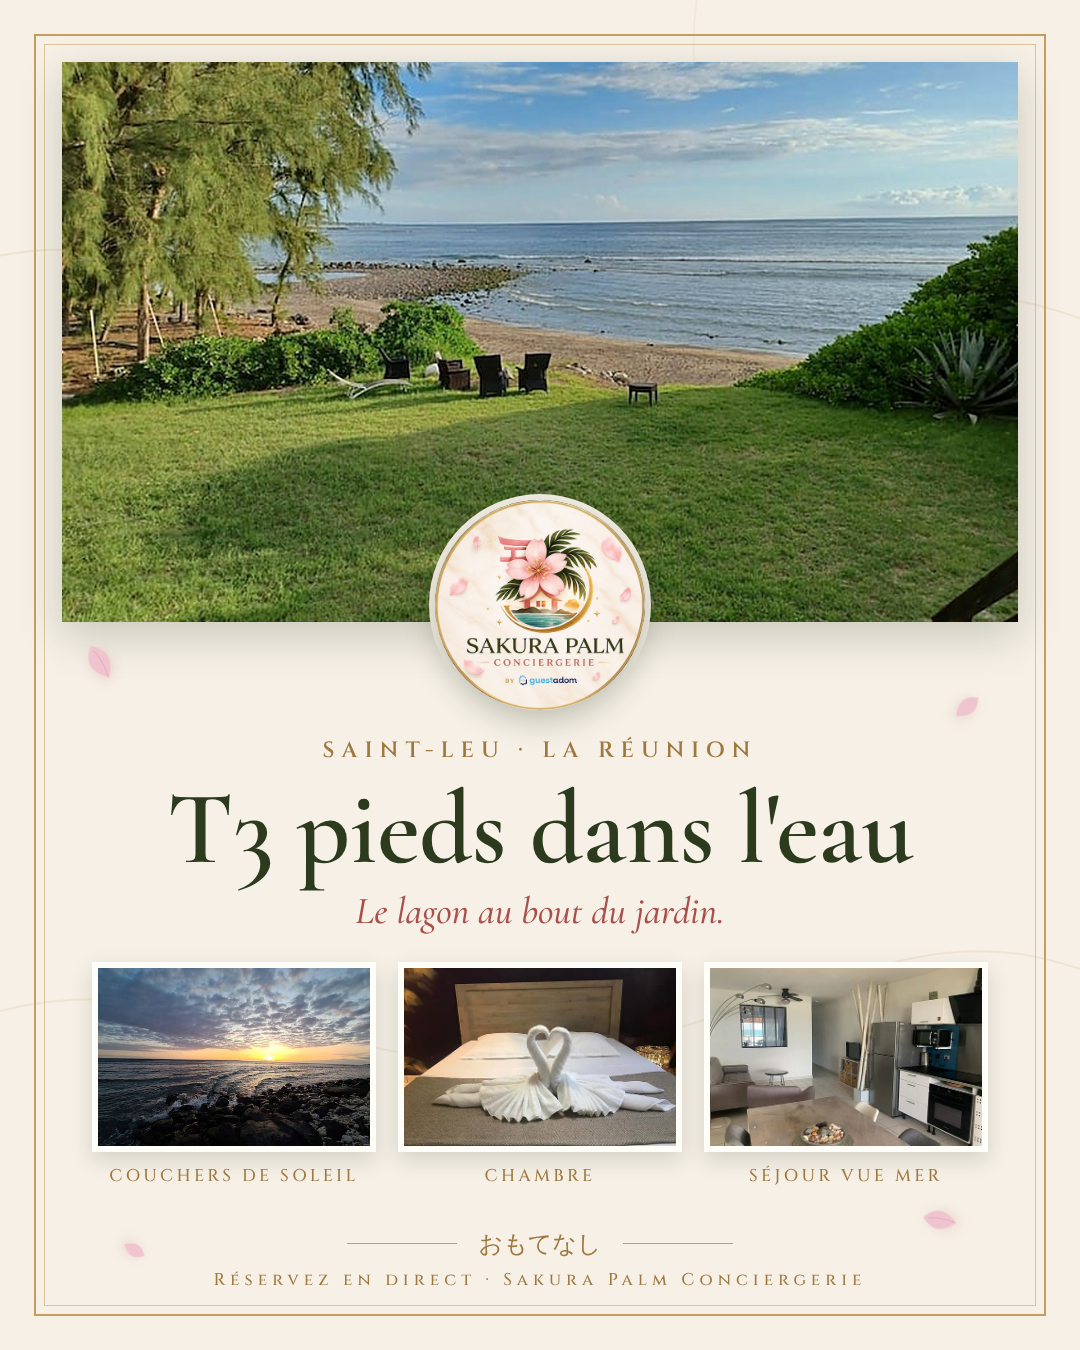
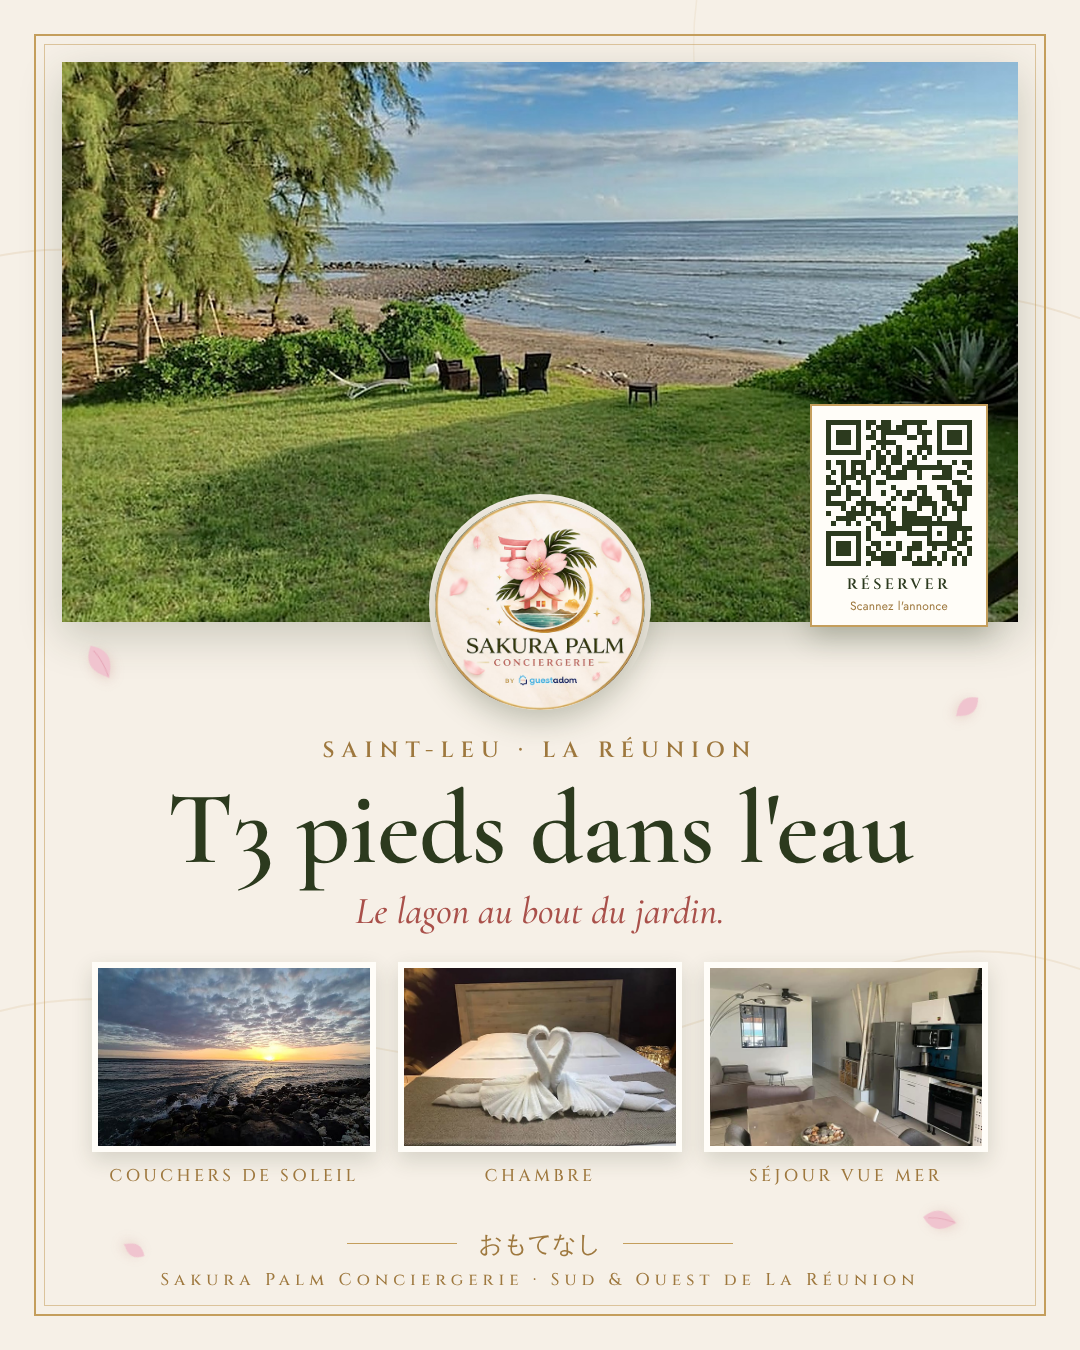
Visuels T3 Saint-Leu : QR code vers l'annonce Airbnb
Claude-Session: https://claude.ai/code/session_01NXmJ5W9pa9PxAtTQw649Kq

diff --git a/communication/sakura-palm/t3-saint-leu/visuel.html b/communication/sakura-palm/t3-saint-leu/visuel.html
@@ -35,6 +35,10 @@ body { background: #ddd; }
 .cta b { font-weight: 600; }
 .foot { font: 500 17px var(--caps); letter-spacing: .3em; color: var(--gold-d); text-align: center; }
 .abs { position: absolute; left: 0; right: 0; z-index: 4; }
+.qr { position: absolute; z-index: 8; background: #fffdf8; padding: 14px 14px 10px; border: 2px solid var(--gold); box-shadow: 0 10px 26px rgba(44,58,30,.25); text-align: center; }
+.qr .qr-svg { display: block; width: 100%; height: auto; }
+.qr p { font: 600 15px var(--caps); letter-spacing: .22em; color: var(--palm); margin-top: 8px; text-transform: uppercase; }
+.qr small { display: block; font: 400 12px var(--sans); color: var(--gold-d); margin-top: 2px; letter-spacing: .02em; }
 </style>
 </head>
 <body>
@@ -50,6 +54,7 @@ body { background: #ddd; }
 
   <div class="photo main" style="left:62px; right:62px; top:62px; height:560px; background-image:url(img/jardin.jpg); background-position:center 62%"></div>
   <img class="medal" src="img/logo.png" style="top:500px; width:210px; height:210px" alt="">
+  <div class="qr" style="top:404px; right:92px; width:178px"><svg class="qr-svg" viewBox="0 0 29 29" xmlns="http://www.w3.org/2000/svg" shape-rendering="crispEdges"><path d="M0 0h1v1h-1zM1 0h1v1h-1zM2 0h1v1h-1zM3 0h1v1h-1zM4 0h1v1h-1zM5 0h1v1h-1zM6 0h1v1h-1zM8 0h1v1h-1zM9 0h1v1h-1zM11 0h1v1h-1zM12 0h1v1h-1zM15 0h1v1h-1zM16 0h1v1h-1zM17 0h1v1h-1zM18 0h1v1h-1zM19 0h1v1h-1zM22 0h1v1h-1zM23 0h1v1h-1zM24 0h1v1h-1zM25 0h1v1h-1zM26 0h1v1h-1zM27 0h1v1h-1zM28 0h1v1h-1zM0 1h1v1h-1zM6 1h1v1h-1zM8 1h1v1h-1zM10 1h1v1h-1zM11 1h1v1h-1zM12 1h1v1h-1zM14 1h1v1h-1zM15 1h1v1h-1zM18 1h1v1h-1zM22 1h1v1h-1zM28 1h1v1h-1zM0 2h1v1h-1zM2 2h1v1h-1zM3 2h1v1h-1zM4 2h1v1h-1zM6 2h1v1h-1zM9 2h1v1h-1zM11 2h1v1h-1zM12 2h1v1h-1zM13 2h1v1h-1zM14 2h1v1h-1zM15 2h1v1h-1zM18 2h1v1h-1zM19 2h1v1h-1zM20 2h1v1h-1zM22 2h1v1h-1zM24 2h1v1h-1zM25 2h1v1h-1zM26 2h1v1h-1zM28 2h1v1h-1zM0 3h1v1h-1zM2 3h1v1h-1zM3 3h1v1h-1zM4 3h1v1h-1zM6 3h1v1h-1zM8 3h1v1h-1zM9 3h1v1h-1zM11 3h1v1h-1zM16 3h1v1h-1zM17 3h1v1h-1zM19 3h1v1h-1zM22 3h1v1h-1zM24 3h1v1h-1zM25 3h1v1h-1zM26 3h1v1h-1zM28 3h1v1h-1zM0 4h1v1h-1zM2 4h1v1h-1zM3 4h1v1h-1zM4 4h1v1h-1zM6 4h1v1h-1zM10 4h1v1h-1zM11 4h1v1h-1zM12 4h1v1h-1zM13 4h1v1h-1zM19 4h1v1h-1zM22 4h1v1h-1zM24 4h1v1h-1zM25 4h1v1h-1zM26 4h1v1h-1zM28 4h1v1h-1zM0 5h1v1h-1zM6 5h1v1h-1zM9 5h1v1h-1zM11 5h1v1h-1zM14 5h1v1h-1zM18 5h1v1h-1zM19 5h1v1h-1zM20 5h1v1h-1zM22 5h1v1h-1zM28 5h1v1h-1zM0 6h1v1h-1zM1 6h1v1h-1zM2 6h1v1h-1zM3 6h1v1h-1zM4 6h1v1h-1zM5 6h1v1h-1zM6 6h1v1h-1zM8 6h1v1h-1zM10 6h1v1h-1zM12 6h1v1h-1zM14 6h1v1h-1zM16 6h1v1h-1zM18 6h1v1h-1zM20 6h1v1h-1zM22 6h1v1h-1zM23 6h1v1h-1zM24 6h1v1h-1zM25 6h1v1h-1zM26 6h1v1h-1zM27 6h1v1h-1zM28 6h1v1h-1zM8 7h1v1h-1zM10 7h1v1h-1zM11 7h1v1h-1zM13 7h1v1h-1zM14 7h1v1h-1zM17 7h1v1h-1zM19 7h1v1h-1zM0 8h1v1h-1zM2 8h1v1h-1zM3 8h1v1h-1zM5 8h1v1h-1zM6 8h1v1h-1zM7 8h1v1h-1zM10 8h1v1h-1zM11 8h1v1h-1zM13 8h1v1h-1zM14 8h1v1h-1zM16 8h1v1h-1zM17 8h1v1h-1zM22 8h1v1h-1zM25 8h1v1h-1zM27 8h1v1h-1zM28 8h1v1h-1zM0 9h1v1h-1zM3 9h1v1h-1zM5 9h1v1h-1zM7 9h1v1h-1zM10 9h1v1h-1zM12 9h1v1h-1zM15 9h1v1h-1zM16 9h1v1h-1zM17 9h1v1h-1zM18 9h1v1h-1zM19 9h1v1h-1zM20 9h1v1h-1zM21 9h1v1h-1zM22 9h1v1h-1zM23 9h1v1h-1zM24 9h1v1h-1zM28 9h1v1h-1zM1 10h1v1h-1zM3 10h1v1h-1zM5 10h1v1h-1zM6 10h1v1h-1zM7 10h1v1h-1zM9 10h1v1h-1zM11 10h1v1h-1zM12 10h1v1h-1zM14 10h1v1h-1zM15 10h1v1h-1zM18 10h1v1h-1zM23 10h1v1h-1zM24 10h1v1h-1zM26 10h1v1h-1zM27 10h1v1h-1zM0 11h1v1h-1zM3 11h1v1h-1zM4 11h1v1h-1zM5 11h1v1h-1zM7 11h1v1h-1zM8 11h1v1h-1zM12 11h1v1h-1zM13 11h1v1h-1zM14 11h1v1h-1zM15 11h1v1h-1zM18 11h1v1h-1zM21 11h1v1h-1zM22 11h1v1h-1zM23 11h1v1h-1zM24 11h1v1h-1zM28 11h1v1h-1zM0 12h1v1h-1zM1 12h1v1h-1zM3 12h1v1h-1zM6 12h1v1h-1zM8 12h1v1h-1zM10 12h1v1h-1zM11 12h1v1h-1zM25 12h1v1h-1zM26 12h1v1h-1zM2 13h1v1h-1zM4 13h1v1h-1zM8 13h1v1h-1zM13 13h1v1h-1zM18 13h1v1h-1zM19 13h1v1h-1zM22 13h1v1h-1zM23 13h1v1h-1zM26 13h1v1h-1zM27 13h1v1h-1zM28 13h1v1h-1zM0 14h1v1h-1zM1 14h1v1h-1zM2 14h1v1h-1zM4 14h1v1h-1zM5 14h1v1h-1zM6 14h1v1h-1zM8 14h1v1h-1zM11 14h1v1h-1zM14 14h1v1h-1zM16 14h1v1h-1zM17 14h1v1h-1zM19 14h1v1h-1zM23 14h1v1h-1zM24 14h1v1h-1zM26 14h1v1h-1zM27 14h1v1h-1zM28 14h1v1h-1zM0 15h1v1h-1zM4 15h1v1h-1zM7 15h1v1h-1zM13 15h1v1h-1zM15 15h1v1h-1zM16 15h1v1h-1zM18 15h1v1h-1zM19 15h1v1h-1zM20 15h1v1h-1zM23 15h1v1h-1zM24 15h1v1h-1zM27 15h1v1h-1zM0 16h1v1h-1zM1 16h1v1h-1zM2 16h1v1h-1zM3 16h1v1h-1zM6 16h1v1h-1zM7 16h1v1h-1zM8 16h1v1h-1zM9 16h1v1h-1zM12 16h1v1h-1zM18 16h1v1h-1zM19 16h1v1h-1zM20 16h1v1h-1zM21 16h1v1h-1zM24 16h1v1h-1zM25 16h1v1h-1zM27 16h1v1h-1zM3 17h1v1h-1zM5 17h1v1h-1zM7 17h1v1h-1zM9 17h1v1h-1zM10 17h1v1h-1zM11 17h1v1h-1zM13 17h1v1h-1zM15 17h1v1h-1zM18 17h1v1h-1zM21 17h1v1h-1zM23 17h1v1h-1zM25 17h1v1h-1zM26 17h1v1h-1zM27 17h1v1h-1zM0 18h1v1h-1zM4 18h1v1h-1zM5 18h1v1h-1zM6 18h1v1h-1zM7 18h1v1h-1zM9 18h1v1h-1zM11 18h1v1h-1zM12 18h1v1h-1zM15 18h1v1h-1zM16 18h1v1h-1zM17 18h1v1h-1zM21 18h1v1h-1zM23 18h1v1h-1zM26 18h1v1h-1zM2 19h1v1h-1zM3 19h1v1h-1zM4 19h1v1h-1zM5 19h1v1h-1zM8 19h1v1h-1zM12 19h1v1h-1zM15 19h1v1h-1zM16 19h1v1h-1zM17 19h1v1h-1zM18 19h1v1h-1zM19 19h1v1h-1zM20 19h1v1h-1zM22 19h1v1h-1zM26 19h1v1h-1zM1 20h1v1h-1zM4 20h1v1h-1zM6 20h1v1h-1zM9 20h1v1h-1zM10 20h1v1h-1zM12 20h1v1h-1zM13 20h1v1h-1zM15 20h1v1h-1zM16 20h1v1h-1zM17 20h1v1h-1zM18 20h1v1h-1zM19 20h1v1h-1zM20 20h1v1h-1zM21 20h1v1h-1zM22 20h1v1h-1zM23 20h1v1h-1zM24 20h1v1h-1zM25 20h1v1h-1zM26 20h1v1h-1zM8 21h1v1h-1zM10 21h1v1h-1zM12 21h1v1h-1zM13 21h1v1h-1zM14 21h1v1h-1zM15 21h1v1h-1zM16 21h1v1h-1zM20 21h1v1h-1zM24 21h1v1h-1zM25 21h1v1h-1zM26 21h1v1h-1zM27 21h1v1h-1zM28 21h1v1h-1zM0 22h1v1h-1zM1 22h1v1h-1zM2 22h1v1h-1zM3 22h1v1h-1zM4 22h1v1h-1zM5 22h1v1h-1zM6 22h1v1h-1zM8 22h1v1h-1zM11 22h1v1h-1zM12 22h1v1h-1zM13 22h1v1h-1zM16 22h1v1h-1zM17 22h1v1h-1zM18 22h1v1h-1zM19 22h1v1h-1zM20 22h1v1h-1zM22 22h1v1h-1zM24 22h1v1h-1zM25 22h1v1h-1zM27 22h1v1h-1zM0 23h1v1h-1zM6 23h1v1h-1zM8 23h1v1h-1zM20 23h1v1h-1zM24 23h1v1h-1zM25 23h1v1h-1zM27 23h1v1h-1zM28 23h1v1h-1zM0 24h1v1h-1zM2 24h1v1h-1zM3 24h1v1h-1zM4 24h1v1h-1zM6 24h1v1h-1zM9 24h1v1h-1zM10 24h1v1h-1zM12 24h1v1h-1zM14 24h1v1h-1zM17 24h1v1h-1zM18 24h1v1h-1zM20 24h1v1h-1zM21 24h1v1h-1zM22 24h1v1h-1zM23 24h1v1h-1zM24 24h1v1h-1zM26 24h1v1h-1zM27 24h1v1h-1zM0 25h1v1h-1zM2 25h1v1h-1zM3 25h1v1h-1zM4 25h1v1h-1zM6 25h1v1h-1zM8 25h1v1h-1zM10 25h1v1h-1zM14 25h1v1h-1zM16 25h1v1h-1zM17 25h1v1h-1zM18 25h1v1h-1zM21 25h1v1h-1zM24 25h1v1h-1zM25 25h1v1h-1zM28 25h1v1h-1zM0 26h1v1h-1zM2 26h1v1h-1zM3 26h1v1h-1zM4 26h1v1h-1zM6 26h1v1h-1zM8 26h1v1h-1zM9 26h1v1h-1zM11 26h1v1h-1zM12 26h1v1h-1zM13 26h1v1h-1zM16 26h1v1h-1zM20 26h1v1h-1zM23 26h1v1h-1zM26 26h1v1h-1zM28 26h1v1h-1zM0 27h1v1h-1zM6 27h1v1h-1zM9 27h1v1h-1zM10 27h1v1h-1zM11 27h1v1h-1zM12 27h1v1h-1zM13 27h1v1h-1zM15 27h1v1h-1zM16 27h1v1h-1zM18 27h1v1h-1zM20 27h1v1h-1zM21 27h1v1h-1zM23 27h1v1h-1zM25 27h1v1h-1zM27 27h1v1h-1zM0 28h1v1h-1zM1 28h1v1h-1zM2 28h1v1h-1zM3 28h1v1h-1zM4 28h1v1h-1zM5 28h1v1h-1zM6 28h1v1h-1zM8 28h1v1h-1zM11 28h1v1h-1zM12 28h1v1h-1zM13 28h1v1h-1zM17 28h1v1h-1zM18 28h1v1h-1zM19 28h1v1h-1zM20 28h1v1h-1zM22 28h1v1h-1zM25 28h1v1h-1zM27 28h1v1h-1z" fill="#2c3a1e"/></svg><p>Réserver</p><small>Scannez l'annonce</small></div>
 
   <div class="abs" style="top:736px"><p class="tag">Saint-Leu · La Réunion</p></div>
   <div class="abs" style="top:780px"><h1 class="title">T3 pieds dans l'eau</h1></div>
@@ -62,7 +67,7 @@ body { background: #ddd; }
   </div>
 
   <div class="abs" style="top:1226px"><div class="rule">おもてなし</div></div>
-  <div class="abs" style="top:1268px"><p class="foot">Réservez en direct · Sakura Palm Conciergerie</p></div>
+  <div class="abs" style="top:1268px"><p class="foot">Sakura Palm Conciergerie · Sud &amp; Ouest de La Réunion</p></div>
 
   <svg class="petal" style="left:78px; top:640px; width:44px; transform:rotate(-30deg)" viewBox="0 0 40 40"><path d="M20 3c7 6 11 13 8 21-2 6-6 9-8 13-2-4-6-7-8-13C9 16 13 9 20 3z" fill="#f0c4cf"/><path d="M20 8c2 8 2 18 0 27" stroke="#e5a3b4" stroke-width=".8" fill="none"/></svg>
   <svg class="petal" style="right:96px; top:690px; width:34px; transform:rotate(50deg)" viewBox="0 0 40 40"><path d="M20 3c7 6 11 13 8 21-2 6-6 9-8 13-2-4-6-7-8-13C9 16 13 9 20 3z" fill="#f0c4cf"/></svg>
@@ -82,6 +87,7 @@ body { background: #ddd; }
 
   <div class="photo main" style="left:62px; right:62px; top:62px; height:880px; background-image:url(img/sunset-vague.jpg); background-position:center 55%"></div>
   <img class="medal" src="img/logo.png" style="top:830px; width:220px; height:220px" alt="">
+  <div class="qr" style="top:690px; right:92px; width:200px"><svg class="qr-svg" viewBox="0 0 29 29" xmlns="http://www.w3.org/2000/svg" shape-rendering="crispEdges"><path d="M0 0h1v1h-1zM1 0h1v1h-1zM2 0h1v1h-1zM3 0h1v1h-1zM4 0h1v1h-1zM5 0h1v1h-1zM6 0h1v1h-1zM8 0h1v1h-1zM9 0h1v1h-1zM11 0h1v1h-1zM12 0h1v1h-1zM15 0h1v1h-1zM16 0h1v1h-1zM17 0h1v1h-1zM18 0h1v1h-1zM19 0h1v1h-1zM22 0h1v1h-1zM23 0h1v1h-1zM24 0h1v1h-1zM25 0h1v1h-1zM26 0h1v1h-1zM27 0h1v1h-1zM28 0h1v1h-1zM0 1h1v1h-1zM6 1h1v1h-1zM8 1h1v1h-1zM10 1h1v1h-1zM11 1h1v1h-1zM12 1h1v1h-1zM14 1h1v1h-1zM15 1h1v1h-1zM18 1h1v1h-1zM22 1h1v1h-1zM28 1h1v1h-1zM0 2h1v1h-1zM2 2h1v1h-1zM3 2h1v1h-1zM4 2h1v1h-1zM6 2h1v1h-1zM9 2h1v1h-1zM11 2h1v1h-1zM12 2h1v1h-1zM13 2h1v1h-1zM14 2h1v1h-1zM15 2h1v1h-1zM18 2h1v1h-1zM19 2h1v1h-1zM20 2h1v1h-1zM22 2h1v1h-1zM24 2h1v1h-1zM25 2h1v1h-1zM26 2h1v1h-1zM28 2h1v1h-1zM0 3h1v1h-1zM2 3h1v1h-1zM3 3h1v1h-1zM4 3h1v1h-1zM6 3h1v1h-1zM8 3h1v1h-1zM9 3h1v1h-1zM11 3h1v1h-1zM16 3h1v1h-1zM17 3h1v1h-1zM19 3h1v1h-1zM22 3h1v1h-1zM24 3h1v1h-1zM25 3h1v1h-1zM26 3h1v1h-1zM28 3h1v1h-1zM0 4h1v1h-1zM2 4h1v1h-1zM3 4h1v1h-1zM4 4h1v1h-1zM6 4h1v1h-1zM10 4h1v1h-1zM11 4h1v1h-1zM12 4h1v1h-1zM13 4h1v1h-1zM19 4h1v1h-1zM22 4h1v1h-1zM24 4h1v1h-1zM25 4h1v1h-1zM26 4h1v1h-1zM28 4h1v1h-1zM0 5h1v1h-1zM6 5h1v1h-1zM9 5h1v1h-1zM11 5h1v1h-1zM14 5h1v1h-1zM18 5h1v1h-1zM19 5h1v1h-1zM20 5h1v1h-1zM22 5h1v1h-1zM28 5h1v1h-1zM0 6h1v1h-1zM1 6h1v1h-1zM2 6h1v1h-1zM3 6h1v1h-1zM4 6h1v1h-1zM5 6h1v1h-1zM6 6h1v1h-1zM8 6h1v1h-1zM10 6h1v1h-1zM12 6h1v1h-1zM14 6h1v1h-1zM16 6h1v1h-1zM18 6h1v1h-1zM20 6h1v1h-1zM22 6h1v1h-1zM23 6h1v1h-1zM24 6h1v1h-1zM25 6h1v1h-1zM26 6h1v1h-1zM27 6h1v1h-1zM28 6h1v1h-1zM8 7h1v1h-1zM10 7h1v1h-1zM11 7h1v1h-1zM13 7h1v1h-1zM14 7h1v1h-1zM17 7h1v1h-1zM19 7h1v1h-1zM0 8h1v1h-1zM2 8h1v1h-1zM3 8h1v1h-1zM5 8h1v1h-1zM6 8h1v1h-1zM7 8h1v1h-1zM10 8h1v1h-1zM11 8h1v1h-1zM13 8h1v1h-1zM14 8h1v1h-1zM16 8h1v1h-1zM17 8h1v1h-1zM22 8h1v1h-1zM25 8h1v1h-1zM27 8h1v1h-1zM28 8h1v1h-1zM0 9h1v1h-1zM3 9h1v1h-1zM5 9h1v1h-1zM7 9h1v1h-1zM10 9h1v1h-1zM12 9h1v1h-1zM15 9h1v1h-1zM16 9h1v1h-1zM17 9h1v1h-1zM18 9h1v1h-1zM19 9h1v1h-1zM20 9h1v1h-1zM21 9h1v1h-1zM22 9h1v1h-1zM23 9h1v1h-1zM24 9h1v1h-1zM28 9h1v1h-1zM1 10h1v1h-1zM3 10h1v1h-1zM5 10h1v1h-1zM6 10h1v1h-1zM7 10h1v1h-1zM9 10h1v1h-1zM11 10h1v1h-1zM12 10h1v1h-1zM14 10h1v1h-1zM15 10h1v1h-1zM18 10h1v1h-1zM23 10h1v1h-1zM24 10h1v1h-1zM26 10h1v1h-1zM27 10h1v1h-1zM0 11h1v1h-1zM3 11h1v1h-1zM4 11h1v1h-1zM5 11h1v1h-1zM7 11h1v1h-1zM8 11h1v1h-1zM12 11h1v1h-1zM13 11h1v1h-1zM14 11h1v1h-1zM15 11h1v1h-1zM18 11h1v1h-1zM21 11h1v1h-1zM22 11h1v1h-1zM23 11h1v1h-1zM24 11h1v1h-1zM28 11h1v1h-1zM0 12h1v1h-1zM1 12h1v1h-1zM3 12h1v1h-1zM6 12h1v1h-1zM8 12h1v1h-1zM10 12h1v1h-1zM11 12h1v1h-1zM25 12h1v1h-1zM26 12h1v1h-1zM2 13h1v1h-1zM4 13h1v1h-1zM8 13h1v1h-1zM13 13h1v1h-1zM18 13h1v1h-1zM19 13h1v1h-1zM22 13h1v1h-1zM23 13h1v1h-1zM26 13h1v1h-1zM27 13h1v1h-1zM28 13h1v1h-1zM0 14h1v1h-1zM1 14h1v1h-1zM2 14h1v1h-1zM4 14h1v1h-1zM5 14h1v1h-1zM6 14h1v1h-1zM8 14h1v1h-1zM11 14h1v1h-1zM14 14h1v1h-1zM16 14h1v1h-1zM17 14h1v1h-1zM19 14h1v1h-1zM23 14h1v1h-1zM24 14h1v1h-1zM26 14h1v1h-1zM27 14h1v1h-1zM28 14h1v1h-1zM0 15h1v1h-1zM4 15h1v1h-1zM7 15h1v1h-1zM13 15h1v1h-1zM15 15h1v1h-1zM16 15h1v1h-1zM18 15h1v1h-1zM19 15h1v1h-1zM20 15h1v1h-1zM23 15h1v1h-1zM24 15h1v1h-1zM27 15h1v1h-1zM0 16h1v1h-1zM1 16h1v1h-1zM2 16h1v1h-1zM3 16h1v1h-1zM6 16h1v1h-1zM7 16h1v1h-1zM8 16h1v1h-1zM9 16h1v1h-1zM12 16h1v1h-1zM18 16h1v1h-1zM19 16h1v1h-1zM20 16h1v1h-1zM21 16h1v1h-1zM24 16h1v1h-1zM25 16h1v1h-1zM27 16h1v1h-1zM3 17h1v1h-1zM5 17h1v1h-1zM7 17h1v1h-1zM9 17h1v1h-1zM10 17h1v1h-1zM11 17h1v1h-1zM13 17h1v1h-1zM15 17h1v1h-1zM18 17h1v1h-1zM21 17h1v1h-1zM23 17h1v1h-1zM25 17h1v1h-1zM26 17h1v1h-1zM27 17h1v1h-1zM0 18h1v1h-1zM4 18h1v1h-1zM5 18h1v1h-1zM6 18h1v1h-1zM7 18h1v1h-1zM9 18h1v1h-1zM11 18h1v1h-1zM12 18h1v1h-1zM15 18h1v1h-1zM16 18h1v1h-1zM17 18h1v1h-1zM21 18h1v1h-1zM23 18h1v1h-1zM26 18h1v1h-1zM2 19h1v1h-1zM3 19h1v1h-1zM4 19h1v1h-1zM5 19h1v1h-1zM8 19h1v1h-1zM12 19h1v1h-1zM15 19h1v1h-1zM16 19h1v1h-1zM17 19h1v1h-1zM18 19h1v1h-1zM19 19h1v1h-1zM20 19h1v1h-1zM22 19h1v1h-1zM26 19h1v1h-1zM1 20h1v1h-1zM4 20h1v1h-1zM6 20h1v1h-1zM9 20h1v1h-1zM10 20h1v1h-1zM12 20h1v1h-1zM13 20h1v1h-1zM15 20h1v1h-1zM16 20h1v1h-1zM17 20h1v1h-1zM18 20h1v1h-1zM19 20h1v1h-1zM20 20h1v1h-1zM21 20h1v1h-1zM22 20h1v1h-1zM23 20h1v1h-1zM24 20h1v1h-1zM25 20h1v1h-1zM26 20h1v1h-1zM8 21h1v1h-1zM10 21h1v1h-1zM12 21h1v1h-1zM13 21h1v1h-1zM14 21h1v1h-1zM15 21h1v1h-1zM16 21h1v1h-1zM20 21h1v1h-1zM24 21h1v1h-1zM25 21h1v1h-1zM26 21h1v1h-1zM27 21h1v1h-1zM28 21h1v1h-1zM0 22h1v1h-1zM1 22h1v1h-1zM2 22h1v1h-1zM3 22h1v1h-1zM4 22h1v1h-1zM5 22h1v1h-1zM6 22h1v1h-1zM8 22h1v1h-1zM11 22h1v1h-1zM12 22h1v1h-1zM13 22h1v1h-1zM16 22h1v1h-1zM17 22h1v1h-1zM18 22h1v1h-1zM19 22h1v1h-1zM20 22h1v1h-1zM22 22h1v1h-1zM24 22h1v1h-1zM25 22h1v1h-1zM27 22h1v1h-1zM0 23h1v1h-1zM6 23h1v1h-1zM8 23h1v1h-1zM20 23h1v1h-1zM24 23h1v1h-1zM25 23h1v1h-1zM27 23h1v1h-1zM28 23h1v1h-1zM0 24h1v1h-1zM2 24h1v1h-1zM3 24h1v1h-1zM4 24h1v1h-1zM6 24h1v1h-1zM9 24h1v1h-1zM10 24h1v1h-1zM12 24h1v1h-1zM14 24h1v1h-1zM17 24h1v1h-1zM18 24h1v1h-1zM20 24h1v1h-1zM21 24h1v1h-1zM22 24h1v1h-1zM23 24h1v1h-1zM24 24h1v1h-1zM26 24h1v1h-1zM27 24h1v1h-1zM0 25h1v1h-1zM2 25h1v1h-1zM3 25h1v1h-1zM4 25h1v1h-1zM6 25h1v1h-1zM8 25h1v1h-1zM10 25h1v1h-1zM14 25h1v1h-1zM16 25h1v1h-1zM17 25h1v1h-1zM18 25h1v1h-1zM21 25h1v1h-1zM24 25h1v1h-1zM25 25h1v1h-1zM28 25h1v1h-1zM0 26h1v1h-1zM2 26h1v1h-1zM3 26h1v1h-1zM4 26h1v1h-1zM6 26h1v1h-1zM8 26h1v1h-1zM9 26h1v1h-1zM11 26h1v1h-1zM12 26h1v1h-1zM13 26h1v1h-1zM16 26h1v1h-1zM20 26h1v1h-1zM23 26h1v1h-1zM26 26h1v1h-1zM28 26h1v1h-1zM0 27h1v1h-1zM6 27h1v1h-1zM9 27h1v1h-1zM10 27h1v1h-1zM11 27h1v1h-1zM12 27h1v1h-1zM13 27h1v1h-1zM15 27h1v1h-1zM16 27h1v1h-1zM18 27h1v1h-1zM20 27h1v1h-1zM21 27h1v1h-1zM23 27h1v1h-1zM25 27h1v1h-1zM27 27h1v1h-1zM0 28h1v1h-1zM1 28h1v1h-1zM2 28h1v1h-1zM3 28h1v1h-1zM4 28h1v1h-1zM5 28h1v1h-1zM6 28h1v1h-1zM8 28h1v1h-1zM11 28h1v1h-1zM12 28h1v1h-1zM13 28h1v1h-1zM17 28h1v1h-1zM18 28h1v1h-1zM19 28h1v1h-1zM20 28h1v1h-1zM22 28h1v1h-1zM25 28h1v1h-1zM27 28h1v1h-1z" fill="#2c3a1e"/></svg><p>Réserver</p><small>Scannez l'annonce</small></div>
 
   <div class="abs" style="top:1080px"><p class="tag">Saint-Leu · La Réunion</p></div>
   <div class="abs" style="top:1126px"><h1 class="title" style="font-size:112px">T3 pieds<br>dans l'eau</h1></div>
@@ -94,7 +100,7 @@ body { background: #ddd; }
   </div>
 
   <div class="abs" style="top:1748px"><div class="rule">おもてなし</div></div>
-  <div class="abs" style="top:1796px"><p class="foot">Réservez en direct · Sakura Palm Conciergerie</p></div>
+  <div class="abs" style="top:1796px"><p class="foot">Sakura Palm Conciergerie · Sud &amp; Ouest de La Réunion</p></div>
 
   <svg class="petal" style="left:84px; top:968px; width:48px; transform:rotate(-30deg)" viewBox="0 0 40 40"><path d="M20 3c7 6 11 13 8 21-2 6-6 9-8 13-2-4-6-7-8-13C9 16 13 9 20 3z" fill="#f0c4cf"/><path d="M20 8c2 8 2 18 0 27" stroke="#e5a3b4" stroke-width=".8" fill="none"/></svg>
   <svg class="petal" style="right:100px; top:1010px; width:36px; transform:rotate(50deg)" viewBox="0 0 40 40"><path d="M20 3c7 6 11 13 8 21-2 6-6 9-8 13-2-4-6-7-8-13C9 16 13 9 20 3z" fill="#f0c4cf"/></svg>
